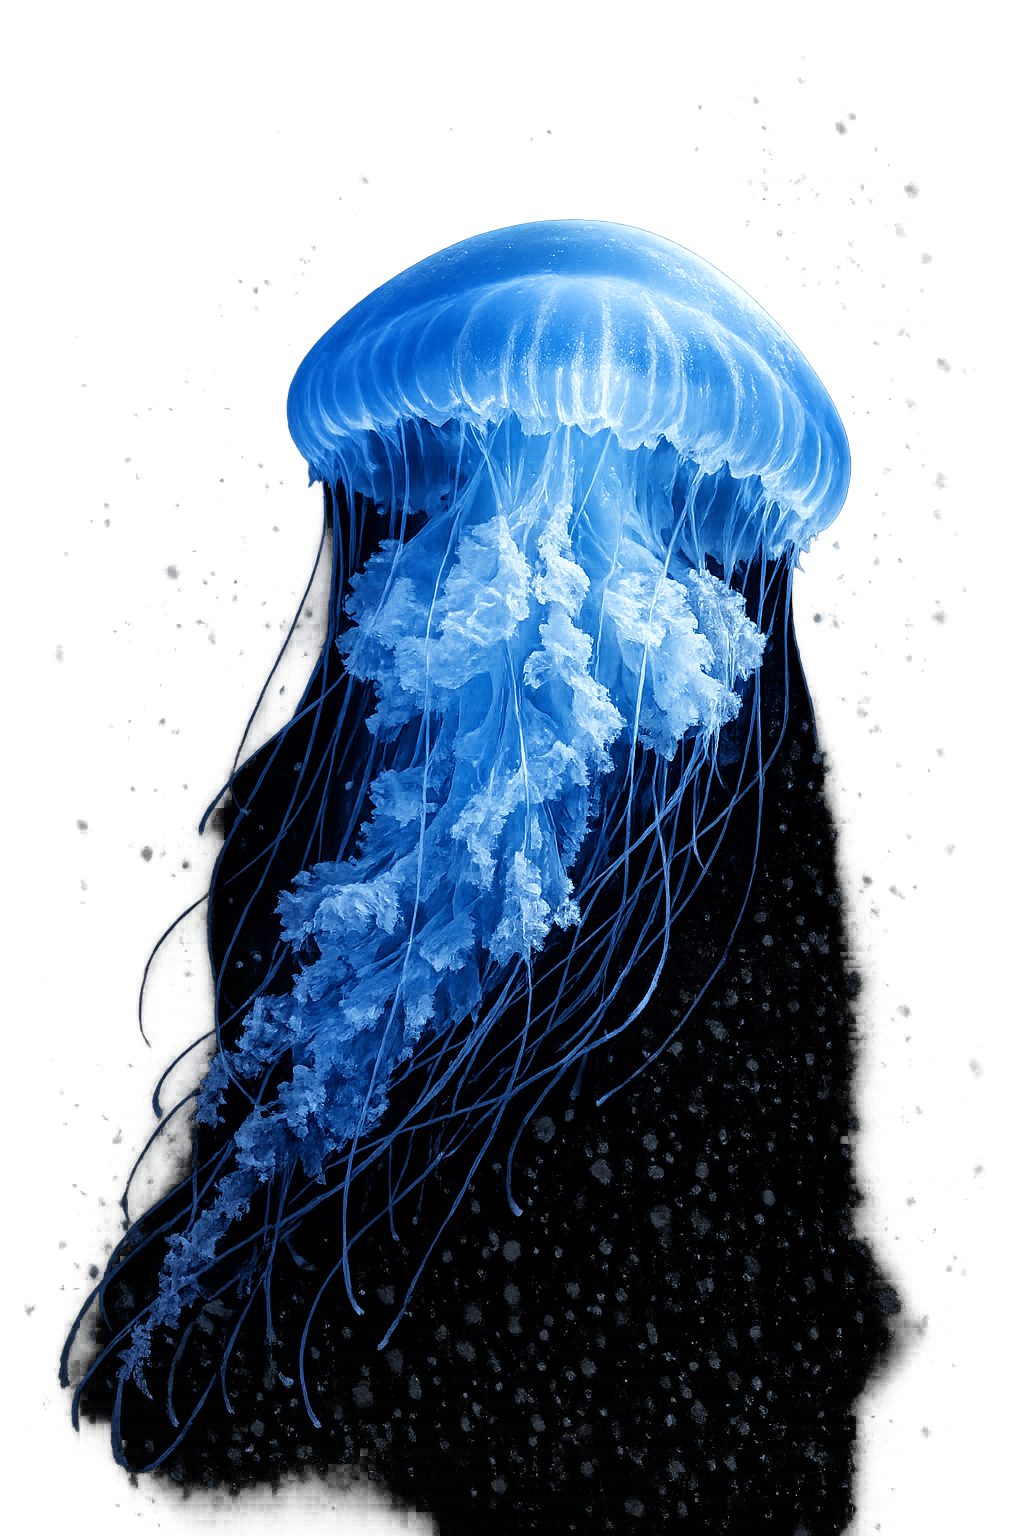
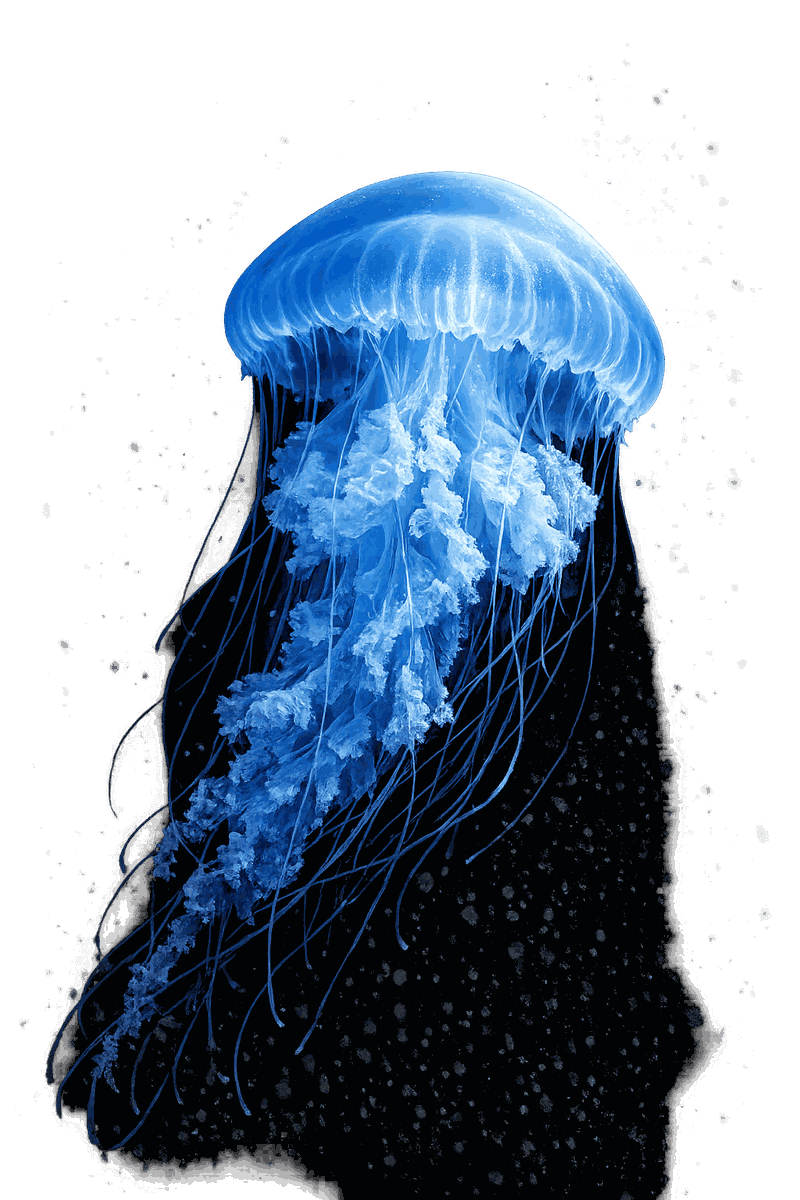
Optimize images: 9.2MB -> 1.1MB, fix crossfade timing
- Blueprint/realistic: PNG->JPG, resized to 1200px, 85% quality
- Jellyfish: quantized to 128 colors, 2.8MB -> 521KB
- Technical specs: PNG->JPG, 1.9MB -> 259KB
- Crossfade now waits for window.load + 5s so blueprint shows first

https://claude.ai/code/session_01XAKo3nVesVHymwZc9NdC37

diff --git a/index.html b/index.html
@@ -71,8 +71,8 @@
             <div class="accent-bar"></div>
         </div>
         <div class="showcase-crossfade" id="showcaseCrossfade">
-            <img src="./assets/img/aami-blueprint.png" alt="AAMI Blueprint" class="showcase-img showcase-blueprint">
-            <img src="./assets/img/aami-realistic.png" alt="AAMI Realistic" class="showcase-img showcase-real">
+            <img src="./assets/img/aami-blueprint.jpg" alt="AAMI Blueprint" class="showcase-img showcase-blueprint">
+            <img src="./assets/img/aami-realistic.jpg" alt="AAMI Realistic" class="showcase-img showcase-real">
         </div>
     </div>
 </section>
@@ -344,11 +344,13 @@ function toggleImpressum() {
     const icon = document.querySelector('.impressum-toggle .fa-chevron-down');
     if (icon) icon.style.transform = imp.classList.contains('open') ? 'rotate(180deg)' : '';
 }
-// Showcase crossfade: auto after 5s
-setTimeout(function() {
-    var el = document.getElementById('showcaseCrossfade');
-    if (el) el.classList.add('revealed');
-}, 5000);
+// Showcase crossfade: auto after 8s, but only after images loaded
+window.addEventListener('load', function() {
+    setTimeout(function() {
+        var el = document.getElementById('showcaseCrossfade');
+        if (el) el.classList.add('revealed');
+    }, 5000);
+});
 </script>
 </body>
 </html>
